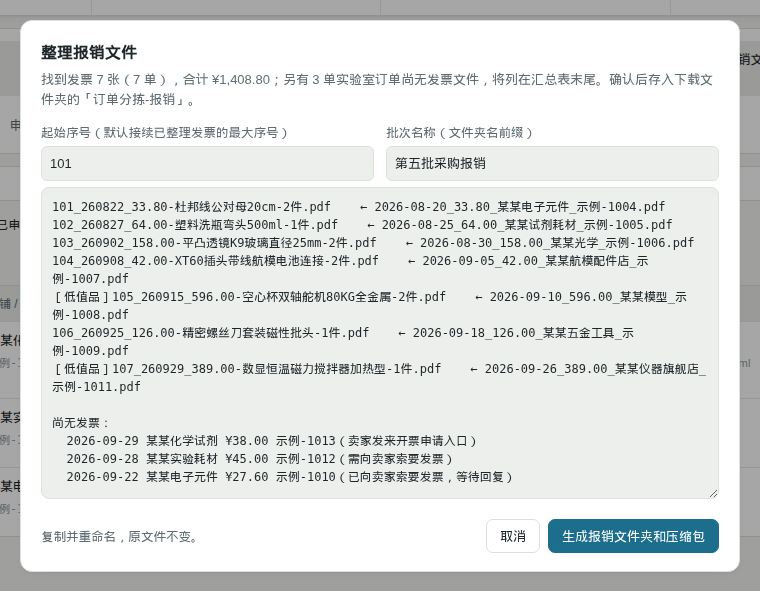
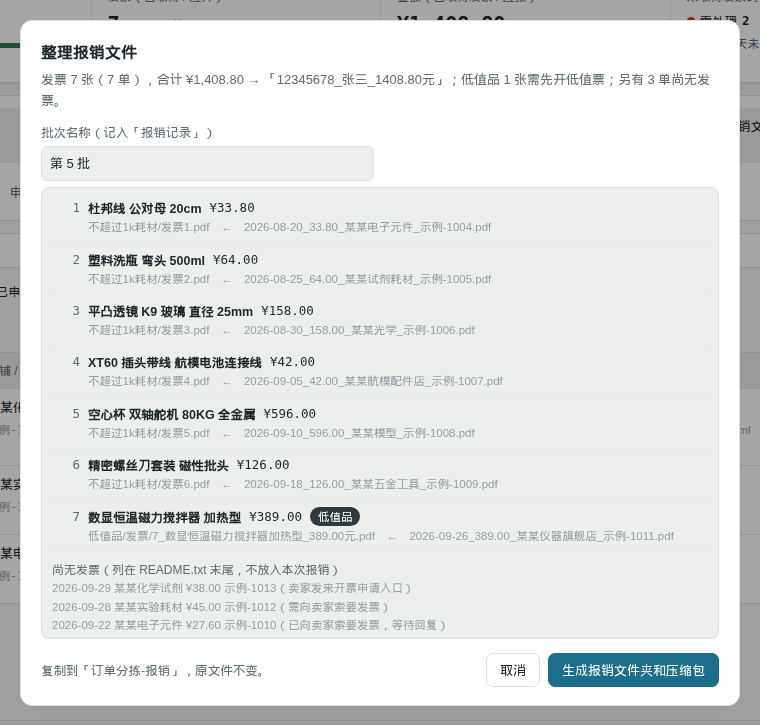
版本 0.19.0；README 与 CLAUDE.md 补报销规范整理（设置项、目录结构、标签、<all_urls> 权限、新测试），重新生成截图和演示动图

diff --git a/js/app.js b/js/app.js
@@ -2562,7 +2562,7 @@
   // ── 备份数据 / 从备份恢复（用户 2026-10-05）：全部数据只在本机浏览器里，删掉扩展或清浏览器数据就没了 ──
   // 备份文件：{ app: 'orderTriage', kind: 'backup', format: 1, version, at, localStorage: { 'orderTriage.*': 原样字符串 }, storage: chrome.storage.local 全部 }
   // 格式有不兼容的改动时 format 加一；旧插件见到不认识的 format 就拒绝，不去猜
-  const VERSION = EXT ? chrome.runtime.getManifest().version : '0.18.0';     // 网页版读不到 manifest，selftest 核对两处一致
+  const VERSION = EXT ? chrome.runtime.getManifest().version : '0.19.0';     // 网页版读不到 manifest，selftest 核对两处一致
   const BACKUP_FORMAT = 1;
   // 恢复时丢掉的扩展存储键：进行中的任务、页面领活记录、标签页编号这类临时状态。恢复回去的话，开着的淘宝页一读到就会接着干活
   // （重新提交开票申请、给卖家发消息、找客服督促、下载），标签页编号也早已失效。

diff --git a/README.md b/README.md
@@ -6,7 +6,7 @@
 </p>
 
 <p align="center">
-  <img src="https://img.shields.io/badge/%E7%89%88%E6%9C%AC-0.18.0-1C6E8C?style=flat-square" alt="版本 0.18.0">
+  <img src="https://img.shields.io/badge/%E7%89%88%E6%9C%AC-0.19.0-1C6E8C?style=flat-square" alt="版本 0.19.0">
   <img src="https://img.shields.io/badge/Chrome%20%E6%89%A9%E5%B1%95-Manifest%20V3-4285F4?style=flat-square&logo=googlechrome&logoColor=white" alt="Chrome 扩展 Manifest V3">
   <img src="https://img.shields.io/badge/%E6%95%B0%E6%8D%AE-%E4%BB%85%E5%9C%A8%E6%9C%AC%E6%9C%BA-2F7D4F?style=flat-square" alt="数据仅在本机">
   <img src="https://img.shields.io/badge/%E5%88%A4%E6%96%AD-%E5%9B%BA%E5%AE%9A%E8%A7%84%E5%88%99%20%C2%B7%20%E6%97%A0%20AI-5F6C72?style=flat-square" alt="固定规则，无 AI">
@@ -72,7 +72,7 @@
 <td valign="top">
 <img src="docs/assets/icons/pack.svg" width="36" height="36" alt=""><br>
 <b>报销文件整理</b><br>
-按序号重命名发票，生成汇总表和压缩包。
+按报销规范分类（耗材、低值品），自动截订单页面，生成 README 和报销清单；记录批次和到账。
 </td>
 </tr>
 <tr>
@@ -98,7 +98,7 @@
 
 ### 第一次使用
 
-1. 点「打开设置」，填写单位的发票抬头和税号。
+1. 点「打开设置」，填写单位的发票抬头和税号，以及报销人姓名、学号（工程师可不填学号）。
 2. 点「从淘宝读取订单」，填写上次报销到哪天，点「开始读取」。未登录时在打开的淘宝页扫码登录一次（也可先点顶栏「打开淘宝」登录），其余自动完成。
 
 <p align="center">
@@ -142,7 +142,7 @@ flowchart LR
 | 1　读取订单 | 从淘宝读取订单 | 打开淘宝「已买到的宝贝」，自动翻页读取上次报销之后的订单、商品图片和逐件退款 | 填写上次报销到哪天；未登录时登录一次 |
 | 2　核对商品 | 确认核对完成 | 按关键词自动判断实验室 / 个人，判不准的标为待定、排在最前 | 按 <kbd>1</kbd> / <kbd>2</kbd> 判完待定，点确认 |
 | 3　处理发票 | 自动处理发票 | 刷新发票情况（开票记录、卖家回复）、下载发票；列出要申请、索要、督促的清单 | 确认一次清单；平台批量开票在淘宝页点「确认提交」 |
-| 4　整理报销文件 | 选择发票文件夹并整理 | 按报销格式重命名发票，生成汇总表和压缩包 | 选择下载文件夹里的「订单分拣-发票」 |
+| 4　整理报销文件 | 选择发票文件夹并整理 | 按报销规范分类整理发票和附件，生成 README.txt、报销清单.xlsx 和压缩包，记一个报销批次 | 选择下载文件夹里的「订单分拣-发票」；到账后填写到账 |
 
 插件运行的淘宝页面上有一个小按钮「← 订单分拣」，点击回到主页。
 
@@ -159,11 +159,14 @@ flowchart LR
 | 蓝「实验室」/ 粉「个人」 | 判断结果；虚线框表示自动判断、尚未确认 |
 | 黄「待定」 | 判不准，需要人判断（整行标黄） |
 | 灰「已退款」 | 按订单页上每件商品的退款文字识别，不计入报销 |
+| 深色「低值品」/ 浅色「耗材」 | 单价超过 200 元的实验室商品；点标签可切换，同名商品以后沿用 |
+| 黄「是否低值品？」 | 判断不出是设备还是耗材，和待定一样排在最前，点一下确认 |
 
 - 「补差价」「补邮费」「补拍」这类链接一律待定。
 - 同一家店有商品判为实验室的，该店之后的商品默认判为实验室。
 - 同一商品买了多件、只退了几件时，可点「仅部分退款」填写保留数量。
 - 订单列表上找不到的订单（多半已删除）不再要发票。
+- 低值品：单件单价超过 200 元、发票明细里没有「模块」、属于设备器械（万用表、电子秤、示波器、焊台等）三条同时满足；耗材（电池、线材、螺丝、板材、传感器等）不算。关键词表见 `js/reimburse.js`。
 
 </details>
 
@@ -210,6 +213,15 @@ flowchart LR
 | <img src="docs/assets/status/urge.svg" width="12" height="12" alt=""> 青 | 已由淘宝客服督促 |
 | <img src="docs/assets/status/bad.svg" width="12" height="12" alt=""> 红 | 需处理（含下载的发票核对不通过、旺旺会话未能读取；下次「自动处理发票」会列进清单） |
 
+发票状态下方另有报销材料标签：
+
+| 标签 | 含义 |
+|---|---|
+| 深色「低值品」 | 需先开低值票，整理时放入「低值品」 |
+| 橙「需补支付记录」 | 价税合计超过 1000 元：订单页面由插件自动截图，支付记录（支付宝账单截图）在该行「手动添加发票 / 附件」补上 |
+| 橙「需用途说明」 | 开票内容含「玩具」「体育用品」「家具」等字样：整理时自动生成 Word 用途说明草稿（文末附订单截图），填写用途后按要求盖章 |
+| 橙「需3D打印明细」 | 3D 打印订单：向卖家索要发票时插件在消息末尾追加一句索要明细；卖家在旺旺发来的表格自动挂上 |
+
 带「›」的状态可点击，打开该单对应的淘宝页面。发票表每行的「操作」按状态只有一个：
 
 | 状态 | 操作 |
@@ -230,7 +242,7 @@ flowchart LR
 - 只打开仍需卖家回复的旺旺会话（打开会让卖家看到「已读」）；旺旺页只保留一个。
 - 下载后读取 PDF 的金额和开票日期，按实付减退款核对：归错的订单自动更正，同店合开的几单都算取得；不是发票的退回「需向卖家索要」，票面少 1 元以上的标红。
 - 卖家发来的图片在本机识别二维码；是税务局电子发票的，核对后下载 PDF。
-- 卖家发到邮箱的发票：在该单点「手动添加发票」。
+- 卖家发到邮箱的发票、支付记录截图等附件：在该单点「手动添加发票」（需补材料时为「手动添加发票 / 附件」），插件按文件判断是发票还是附件。
 - 「设置 → 每天自动刷新发票情况」：每天定时刷新、下载，不提交、不发送。
 - 插件打开的淘宝页面做完自动关闭；用户自己打开的不关。
 
@@ -239,17 +251,29 @@ flowchart LR
 ### 整理报销文件
 
 <p align="center">
-  <img src="docs/screenshots/pack.png" alt="「整理报销文件」对话框：起始序号、批次名称，以及每张发票的新文件名和尚无发票的订单（虚构数据）" width="760">
+  <img src="docs/screenshots/pack.png" alt="「整理报销文件」对话框：报销文件夹名、批次名称，每张发票按报销规范放入的位置和低值品、缺材料标签（虚构数据）" width="760">
 </p>
 
-- 文件名：`序号_开票日期_金额-商品摘要-数量件.pdf`，序号接续已整理发票；合开的一张票一行（序号写成 `261+262`）。
-- 整理后这一批记为已整理，下一批不再放入。
-- 存入 `订单分拣-报销/批次名称_日期_合计/`，附 `汇总.csv` 和同名 `.zip`；单张超过 200 元的放入「低值品」子文件夹。原文件不变。
+按报销规范存入 `订单分拣-报销/`，附同名 `.zip`，原文件不变：
+
+```
+学号_姓名_总金额元/            （没有学号时：姓名_总金额元）
+  README.txt                    报销人、总金额、各分类合计、特殊情况、逐项明细
+  报销清单.xlsx
+  不超过1k耗材/发票1.pdf、发票2.pdf…
+  超过1k耗材/发票/、附件原图/   订单页面截图、支付记录、用途说明、3D 打印明细
+  低值品/发票/、附件原图/
+```
+
+- 没填报销人姓名时，先打开设置。有「是否低值品？」的票先在预览里点一下确认。
+- 整理后这一批记为已整理（「已整理（第 N 批）」），第 4 步下方「报销记录」每批一行：待到账（黄）/ 已到账（绿）/ 有差额（红）；「填写到账」可分次填。有差额时自动找出金额正好相加等于差额的几张票。
+- 「更多 → 导入已整理的发票文件夹」时，`YYMMDD_……第X批……_金额_报销给某人` 形式的子文件夹自动记为历史批次。
 
 ## 设置与数据
 
 | 项目 | 说明 |
 |---|---|
+| 报销人姓名、学号 | 整理报销文件时必填姓名；学号可空（工程师） |
 | 抬头、税号 | 必填，默认为空；税号按校验位检查 |
 | 接收发票的邮箱 | 可留空；卖家要求邮箱时附在消息中 |
 | 未开票超过几天请客服督促 | 默认 7 天 |
@@ -280,7 +304,7 @@ flowchart LR
 
 - 没有服务器、账号、上传、同步或统计代码，也没有人工智能功能，可直接阅读源码核实。
 - 不加载外部脚本和字体。读取二维码（jsQR）和发票 PDF（Mozilla PDF.js）的开源库原样放在 `vendor/` 中。
-- 分拣结果、设置、开票记录都保存在本机浏览器中。
+- 分拣结果、设置、开票记录、报销批次都保存在本机浏览器中；订单页面截图和手动添加的附件存在本机 IndexedDB（不进备份）。
 - 商品图片直接从淘宝图片服务器加载，与用户自己打开淘宝相同。
 - 会改变淘宝上状态的操作，都需要用户在主页点击按钮并在清单中确认后才开始；平台批量开票的「确认提交」由用户点击。
 
@@ -292,6 +316,7 @@ flowchart LR
 | `storage` | 在本机保存数据，在主页和淘宝页面之间传递任务和结果 |
 | `downloads` | 将发票存入下载文件夹的「订单分拣-发票」并按订单命名，将整理好的报销文件存入「订单分拣-报销」，将备份数据存入「订单分拣-备份」 |
 | `alarms` | 「每天自动刷新发票情况」每小时检查一次是否到达设定时间 |
+| `<all_urls>` | 截取插件自己打开的订单详情页（超过 1000 元、需用途说明的订单）：`chrome.tabs.captureVisibleTab` 要求此权限。截图前核对该页在前台且是这一单的详情页；扩展脚本运行的页面仍只限下表 |
 | `https://*.aliyuncs.com/*`、`https://invoice-ua.taobao.com/*` | 淘宝和卖家的发票 PDF 所在位置：下载、命名，并读取金额和开票日期用于核对 |
 | `https://*.alicdn.com/*` | 淘宝图片服务器：读取卖家发来的图片，判断是否为发票二维码 |
 
@@ -304,7 +329,7 @@ flowchart LR
 |---|---|
 | `buyertrade.taobao.com`（已买到的宝贝） | 读取订单、商品图片、逐件退款状态、卖家旺旺名 |
 | `i.taobao.com/my_itaobao/…`（我的发票、批量开票） | 读取开票记录、下载平台发票、批量申请 |
-| `trade.taobao.com/trade/detail/…`、`trade.tmall.com/detail/…`（订单详情） | 读取卖家旺旺名，检查是否整单退款 |
+| `trade.taobao.com/trade/detail/…`、`trade.tmall.com/detail/…`（订单详情） | 读取卖家旺旺名，检查是否整单退款；分段滚动以截取订单页面，读取支付宝交易号和付款时间 |
 | `market.m.taobao.com/app/im/…`（网页版旺旺） | 扫描卖家回复、下载卖家发送的文件、发送索要发票的消息、点击开票卡片的「去申请」 |
 | `invoice-ua.taobao.com/e-invoice/…`（开具发票、发票详情） | 按卖家的开票入口申请：核对订单号和抬头后提交 |
 | `ai.alimebot.taobao.com`（淘宝官方客服） | 请人工客服督促开票 |
@@ -320,6 +345,7 @@ flowchart LR
 - 淘宝页面结构没有公开文档，扩展依靠页面上的文字和元素定位，淘宝改版后可能需要更新插件。
 - 淘宝网页版旺旺同一时间只能连接一个聊天页，打开第二个时旧的会断开；扩展只保留最新的一个，断开后自动刷新。
 - 「自动处理发票」的一键串联、「请淘宝客服督促」中客服发来开票入口后的自动提交、「按卖家的开票入口申请」的部分环节，尚未在真实页面上完整验证。
+- 订单详情页截图（分段拼接、隐藏固定栏）和支付宝交易号读取只在模拟页上测过；支付记录（支付宝账单）需要用户自己截图添加。
 - 纸质发票没有电子文件，需等待卖家寄送；单笔投诉的详情在电脑网页上看不到，只能在手机淘宝中查看。
 - 「每天自动刷新发票情况」只在浏览器开启时运行。
 - 开发和测试使用 Chrome 与 Chromium，其他浏览器未经验证。
@@ -335,13 +361,14 @@ flowchart LR
 # 自检：读表格、合并规则、判断规则、发票逻辑（需要 Node.js 18 或更新）
 node tools/selftest.mjs
 
-# 端到端测试：带扩展启动无界面浏览器，在模拟页上走完整流程（需要 Python 3 和 Playwright）
-python3 -m pip install playwright
+# 端到端测试：带扩展启动无界面浏览器，在模拟页上走完整流程（需要 Python 3 和 Playwright；e2e-reimburse 另需 openpyxl、python-docx、Pillow）
+python3 -m pip install playwright openpyxl python-docx pillow
 python3 -m playwright install chromium
 env -u TMPDIR python3 tools/e2e-mock.py      # 读取订单、退款、自动翻页、导入订单表合并、界面准则
 env -u TMPDIR python3 tools/e2e-invoice.py   # 自动处理发票（分段进度、一次确认）、读开票记录和旺旺、下载改名、发消息、逐单操作、回主页按钮
 env -u TMPDIR python3 tools/e2e-apply.py     # 平台批量申请（停在确认页）、按卖家的开票入口申请、工作页面用完关闭
 env -u TMPDIR python3 tools/e2e-extras.py    # 读取发票文件夹、二维码、备份恢复、某段超时
+env -u TMPDIR python3 tools/e2e-reimburse.py # 报销规范：低值品、订单页面截图、补材料、整理结构、README / 报销清单 / 用途说明、报销批次与到账
 ```
 
 每个端到端测试约一到两分钟。`env -u TMPDIR` 是因为临时目录路径过长时浏览器会报错，路径不长时可以省略。
